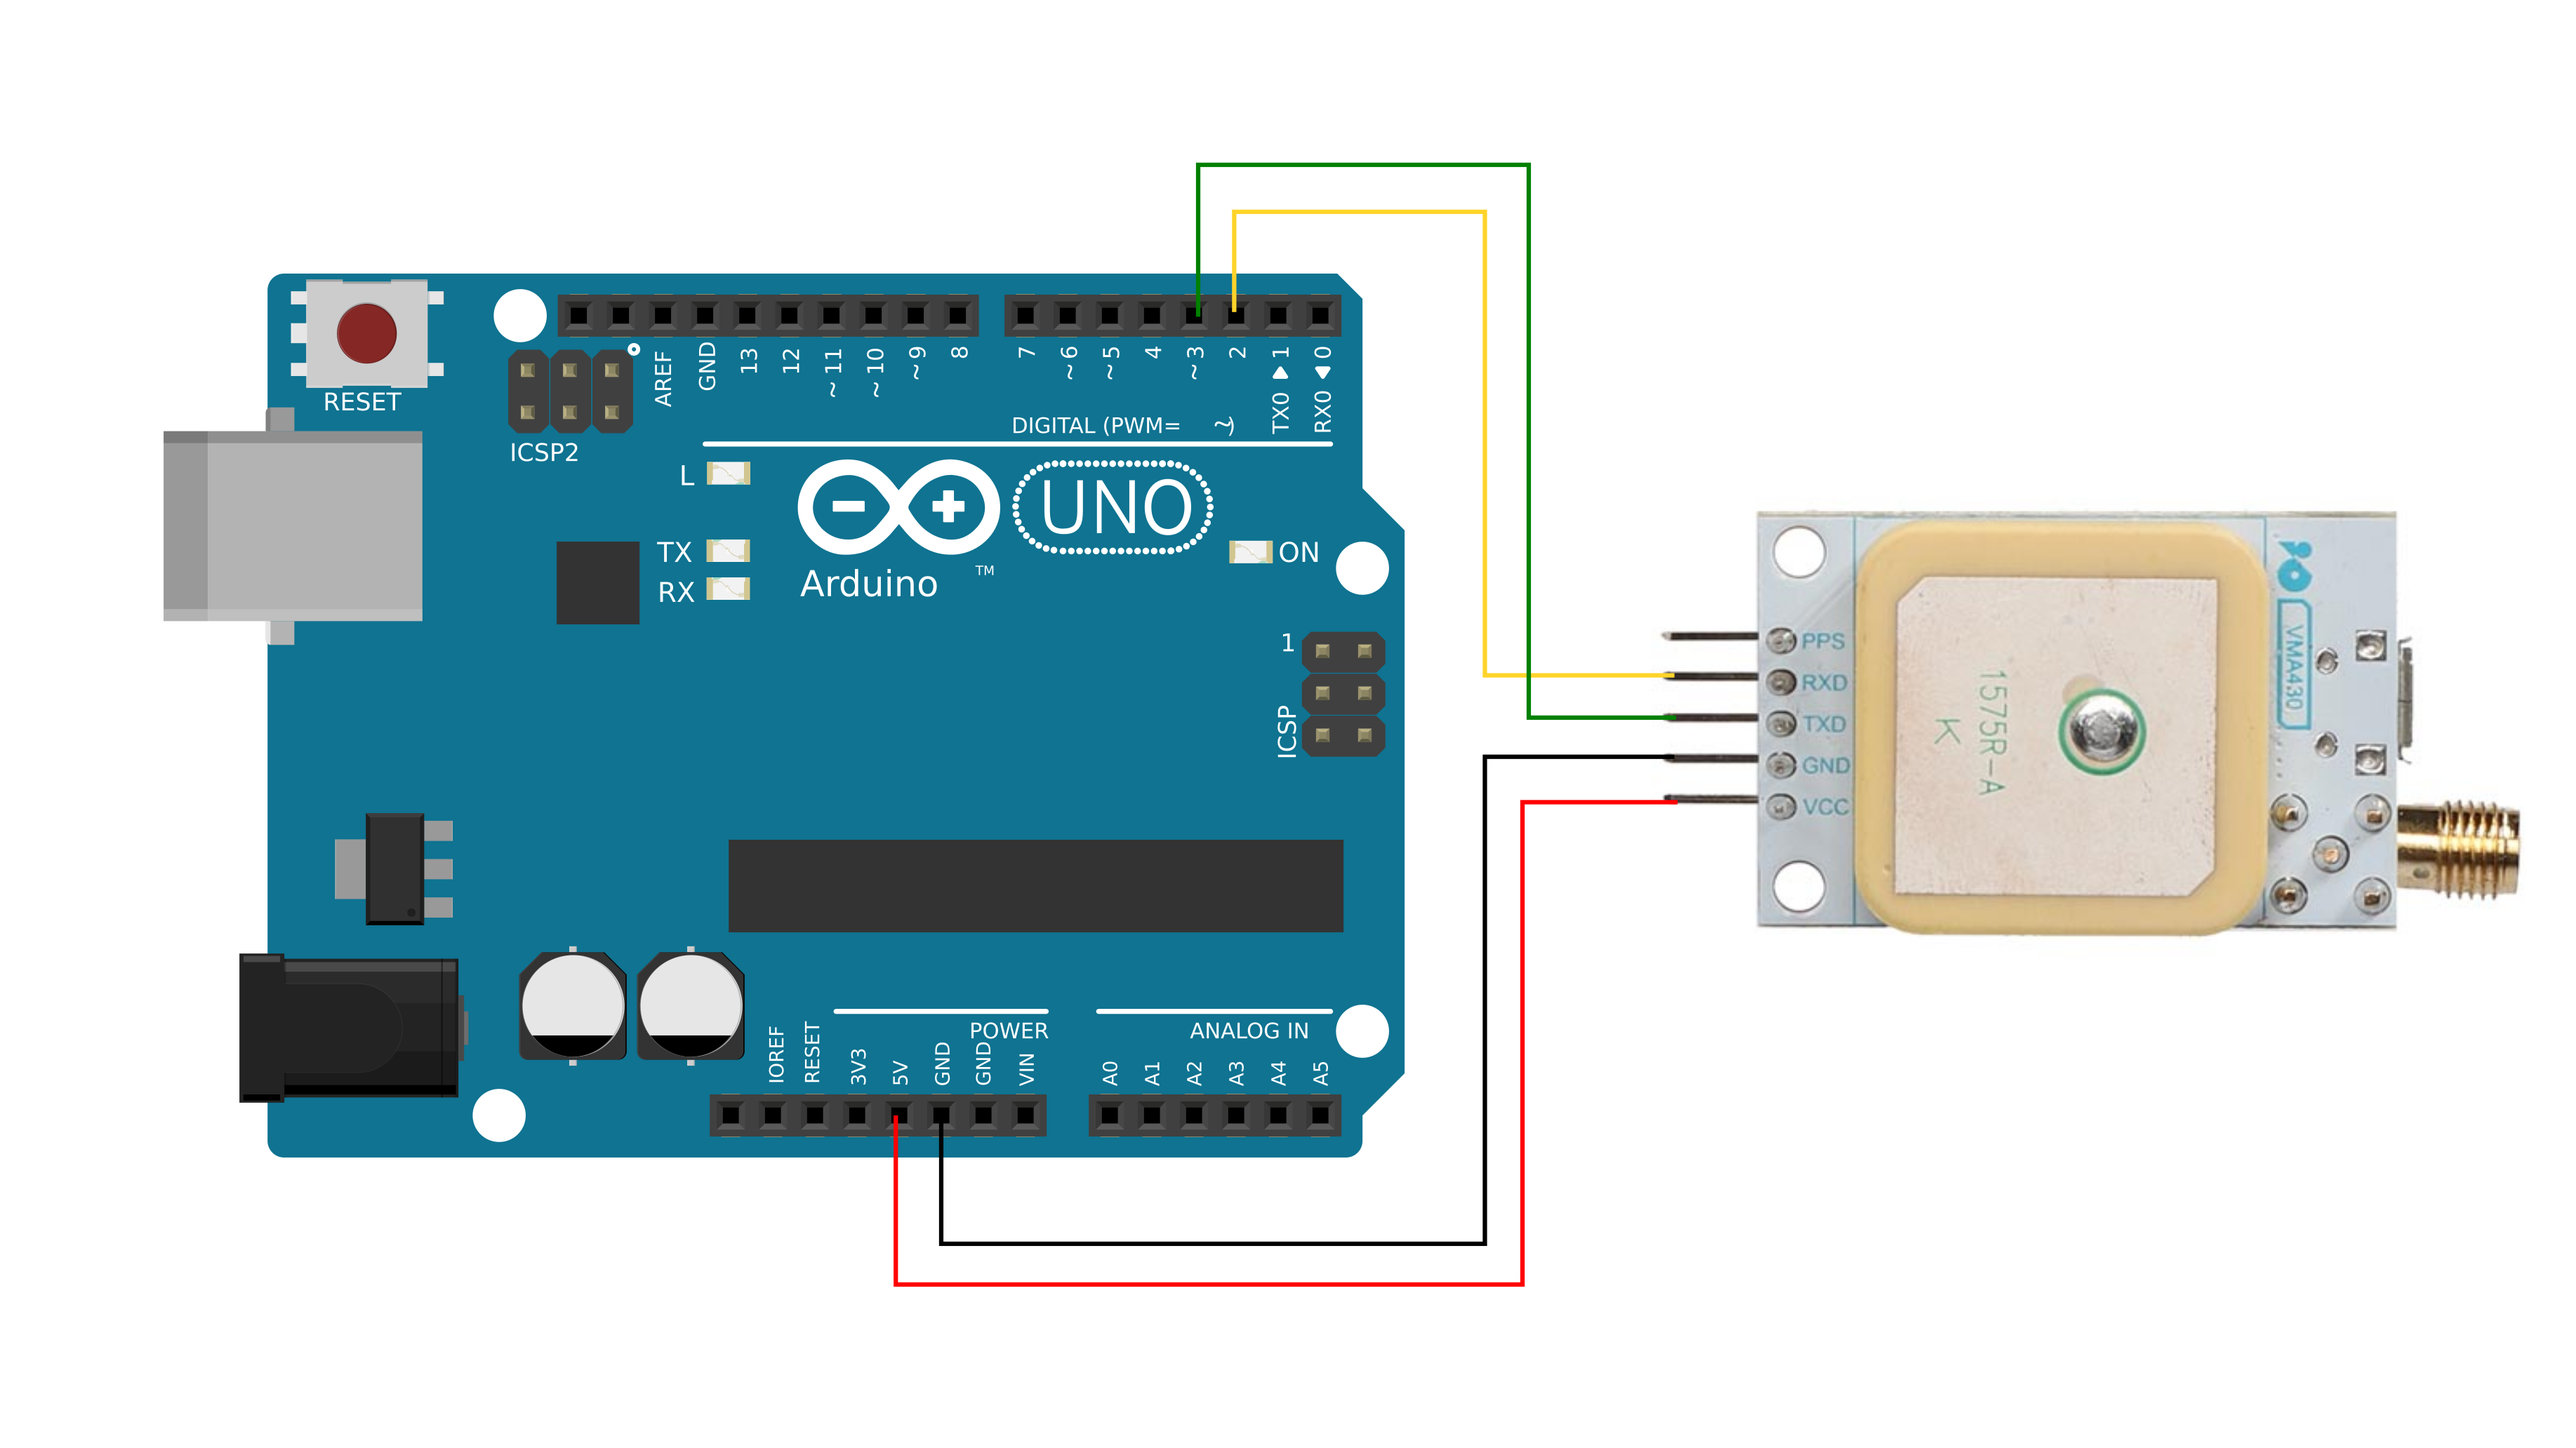
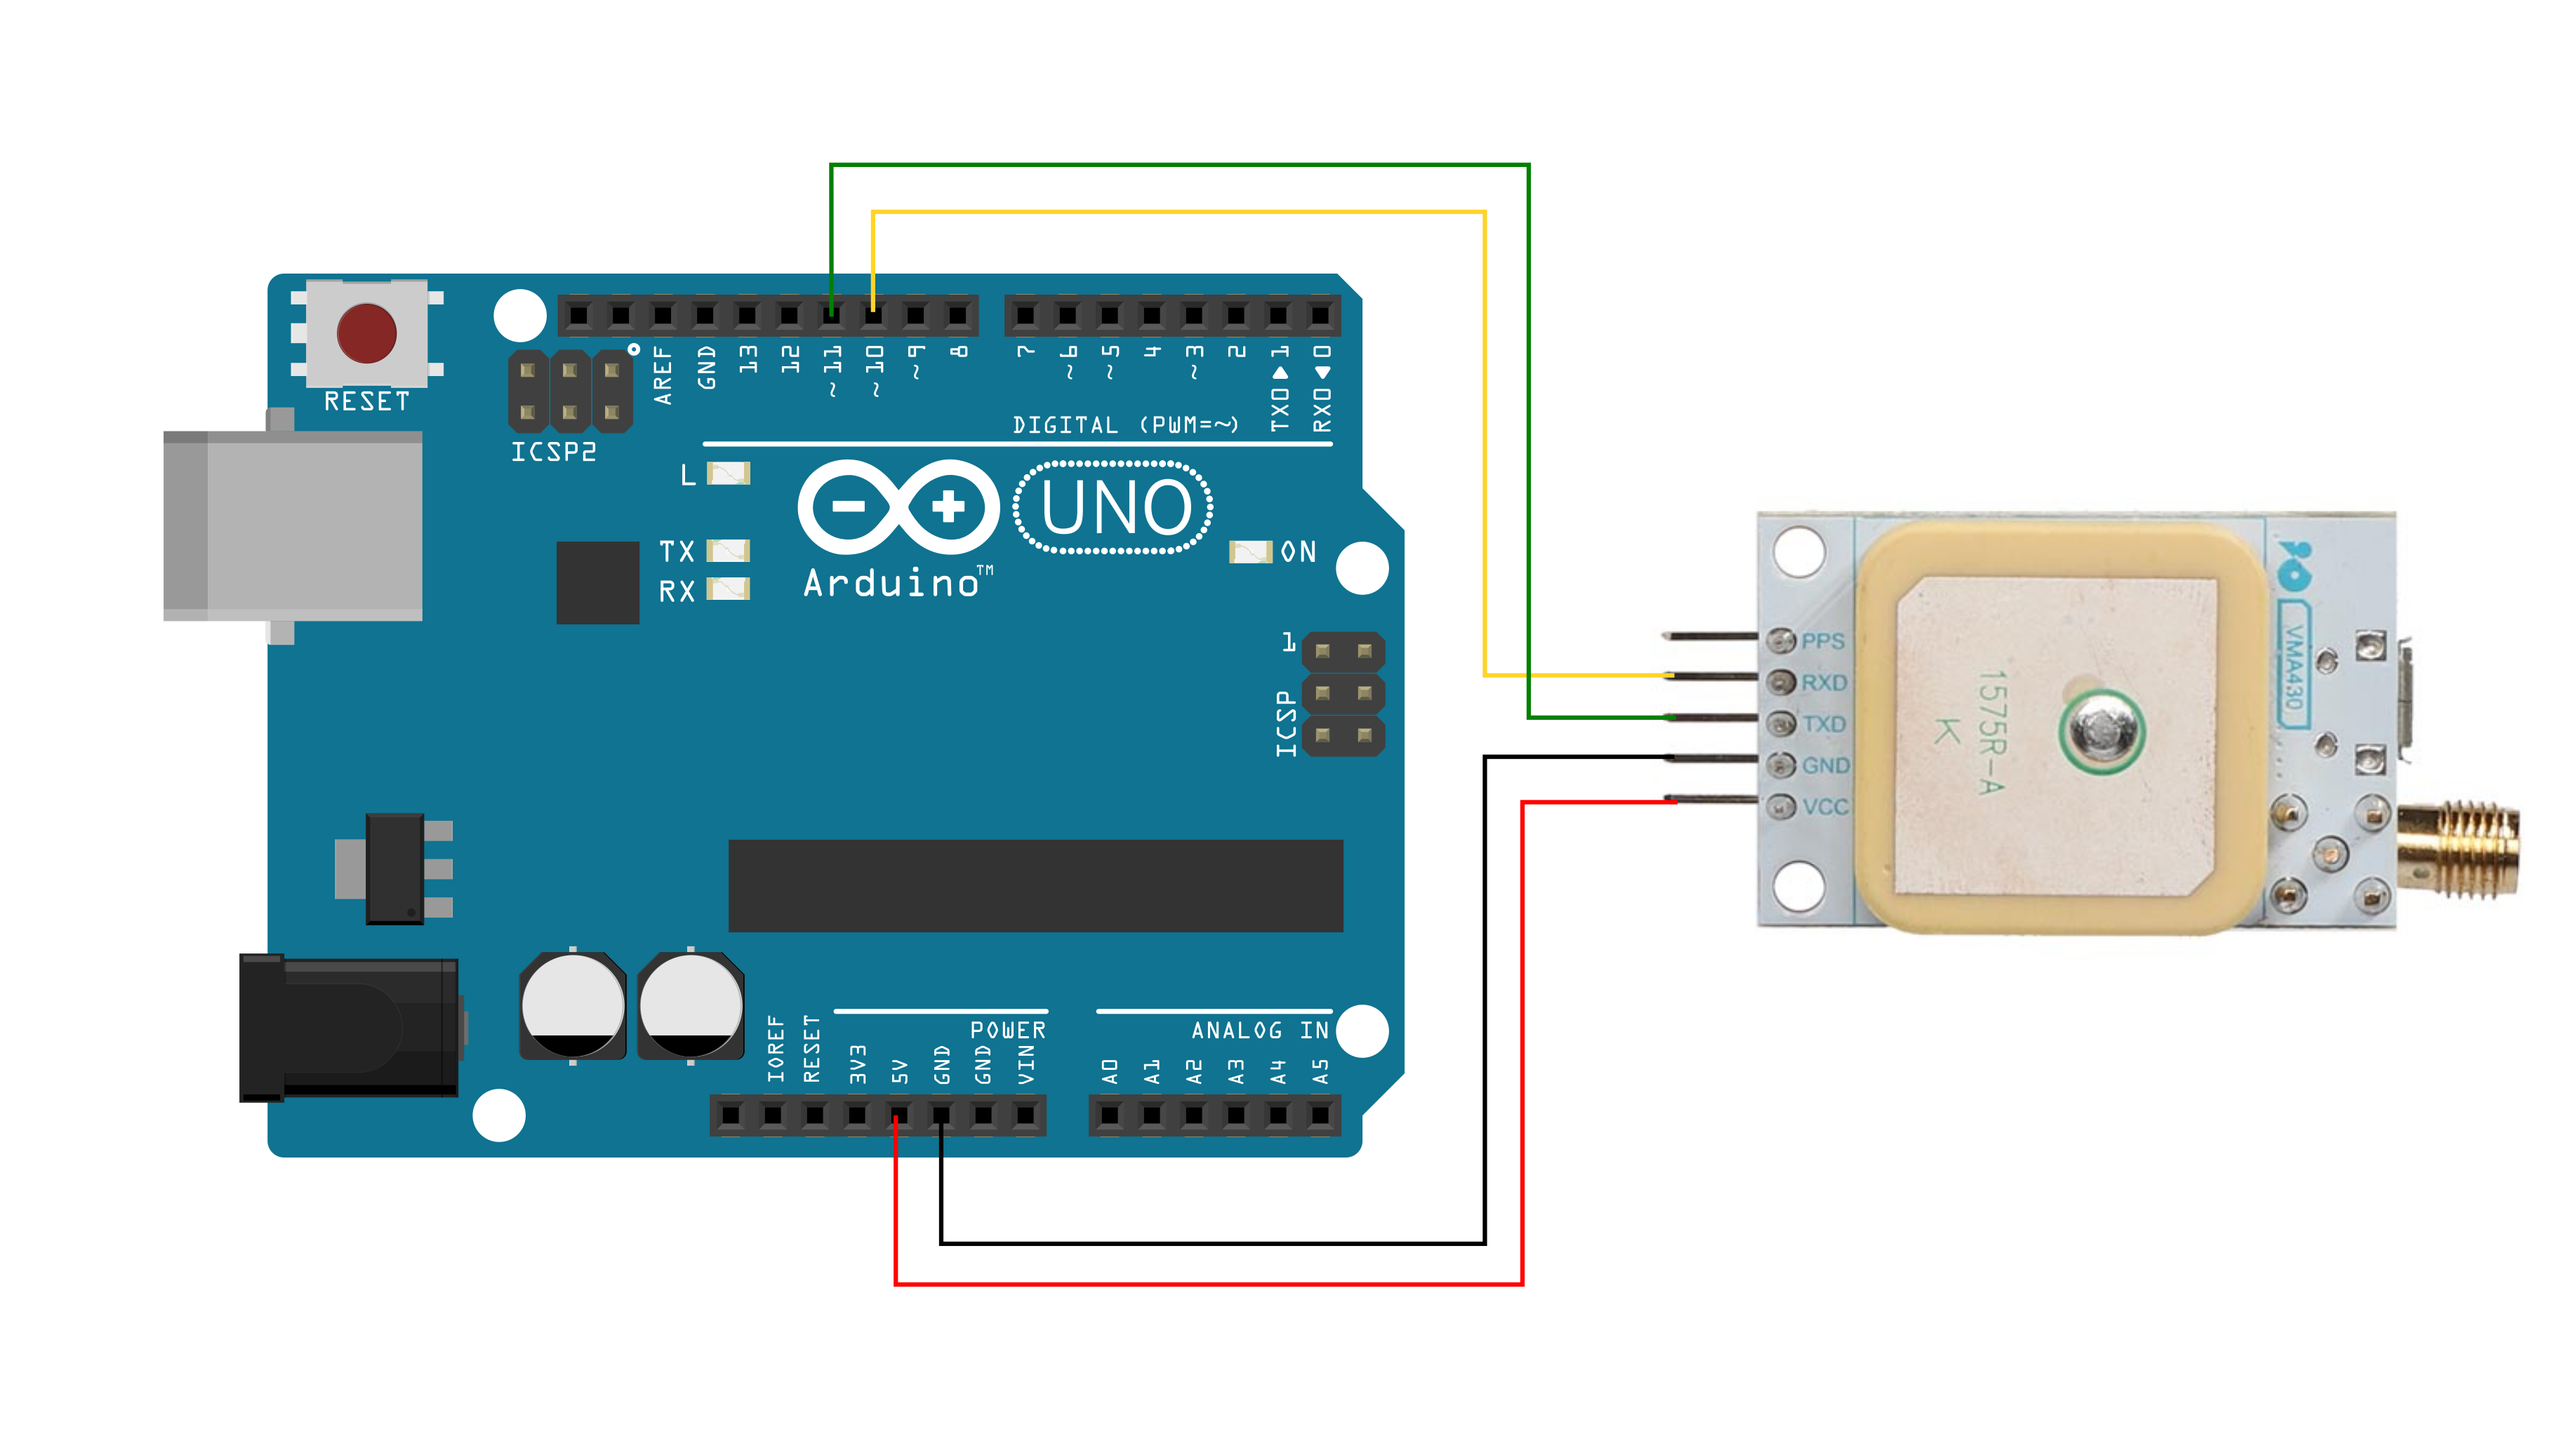
Fixed compatibility issues with leonardo and micro boards

diff --git a/README.md b/README.md
@@ -37,10 +37,16 @@ Wire up the GPS module to an Arduino compatible board as shown below:
 |----------|-------------|
 |VCC|5V|
 |GND|GND|
-|TXD|D3|
-|RXD|D2|
+|TXD|D11|
+|RXD|D10|
 
 ![](./extras/images/wiring_diagram.png)
+
+**Note:** The library uses a SoftwareSerial port to communicate with the GPS module. The default pin layout should be compatible with Arduino Uno, Mega, Leonardo, and Micro compatible boards. Other Arduino models may have different restrictions on the pins that can be used for this purpose. Check the limitations section of the SoftwareSerial Arduino site page (https://www.arduino.cc/en/Reference/softwareSerial) to find out which pins can be used on your particular Arduino board model. You can change the pins that are used by the library by altering the following line of code:
+
+```Cpp
+SoftwareSerial ss(11, 10); // RX, TX
+```
 
 ### Programming
 
